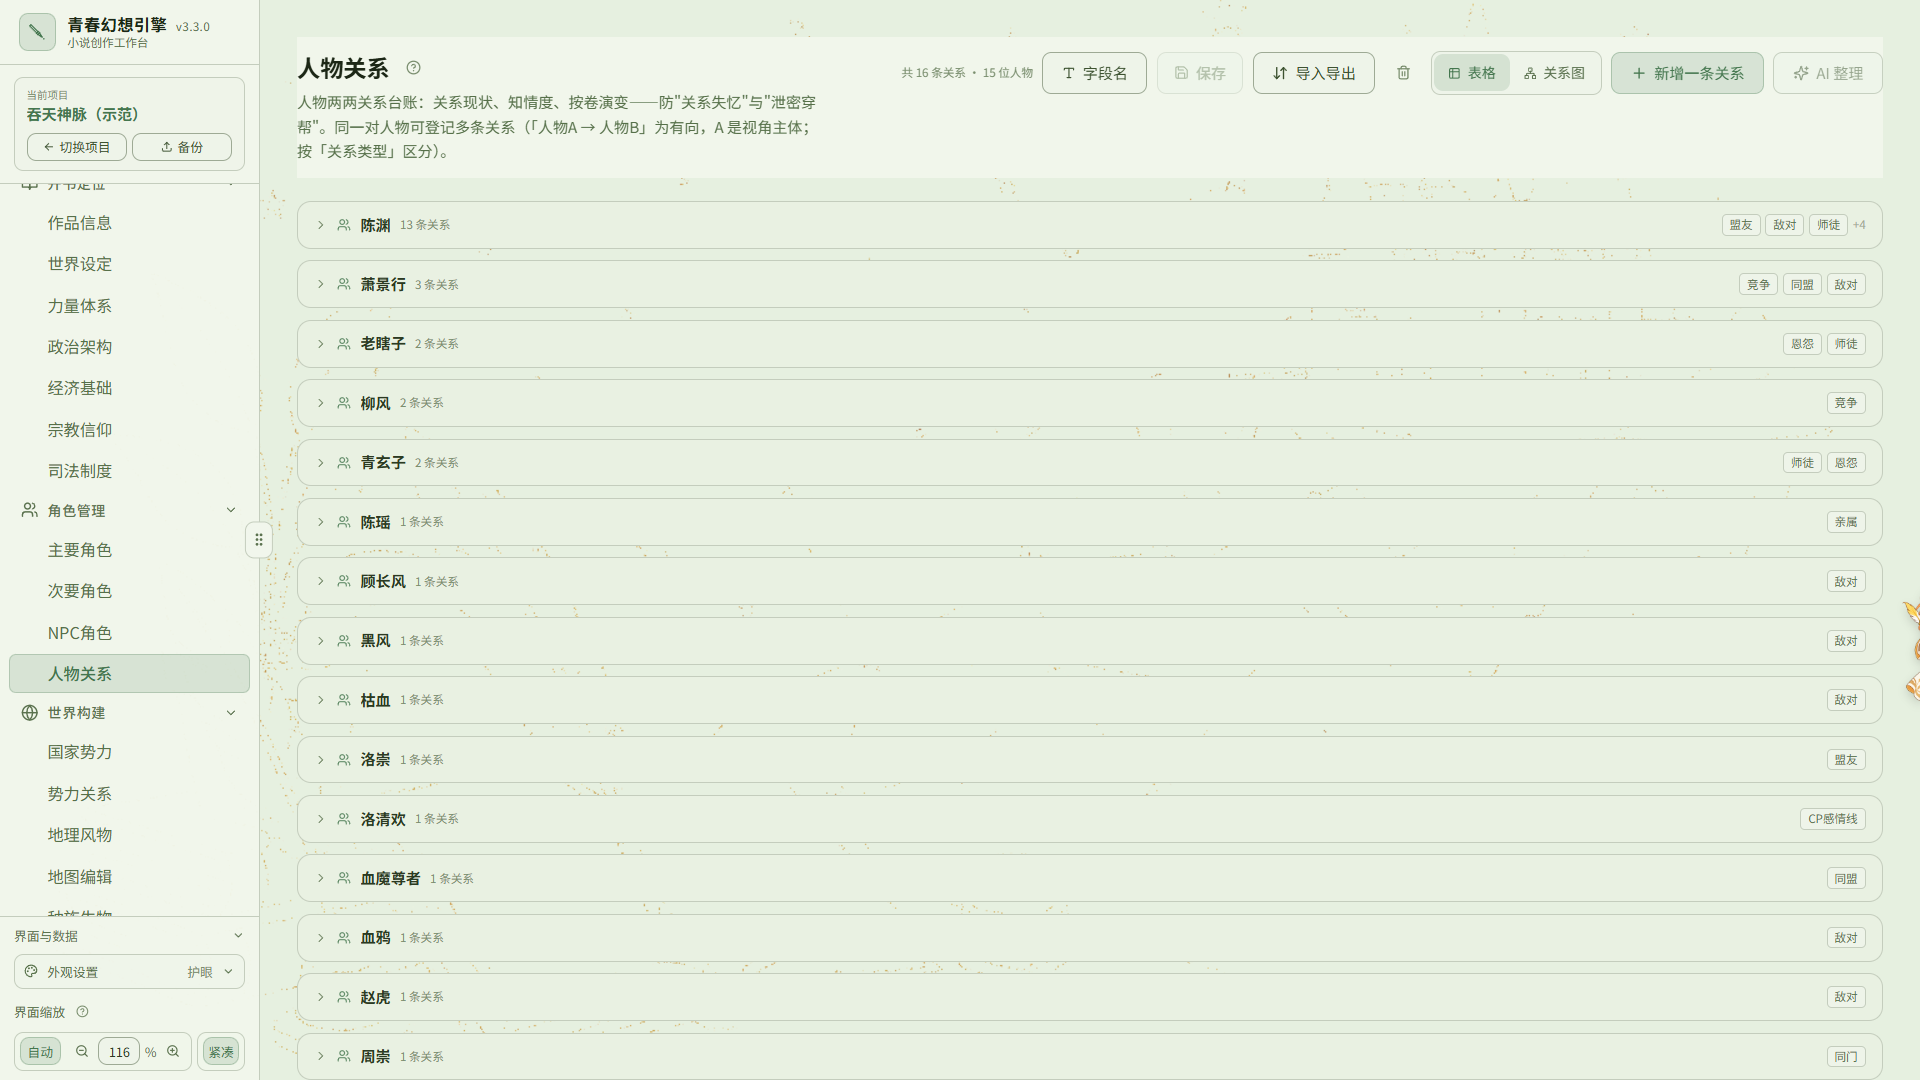
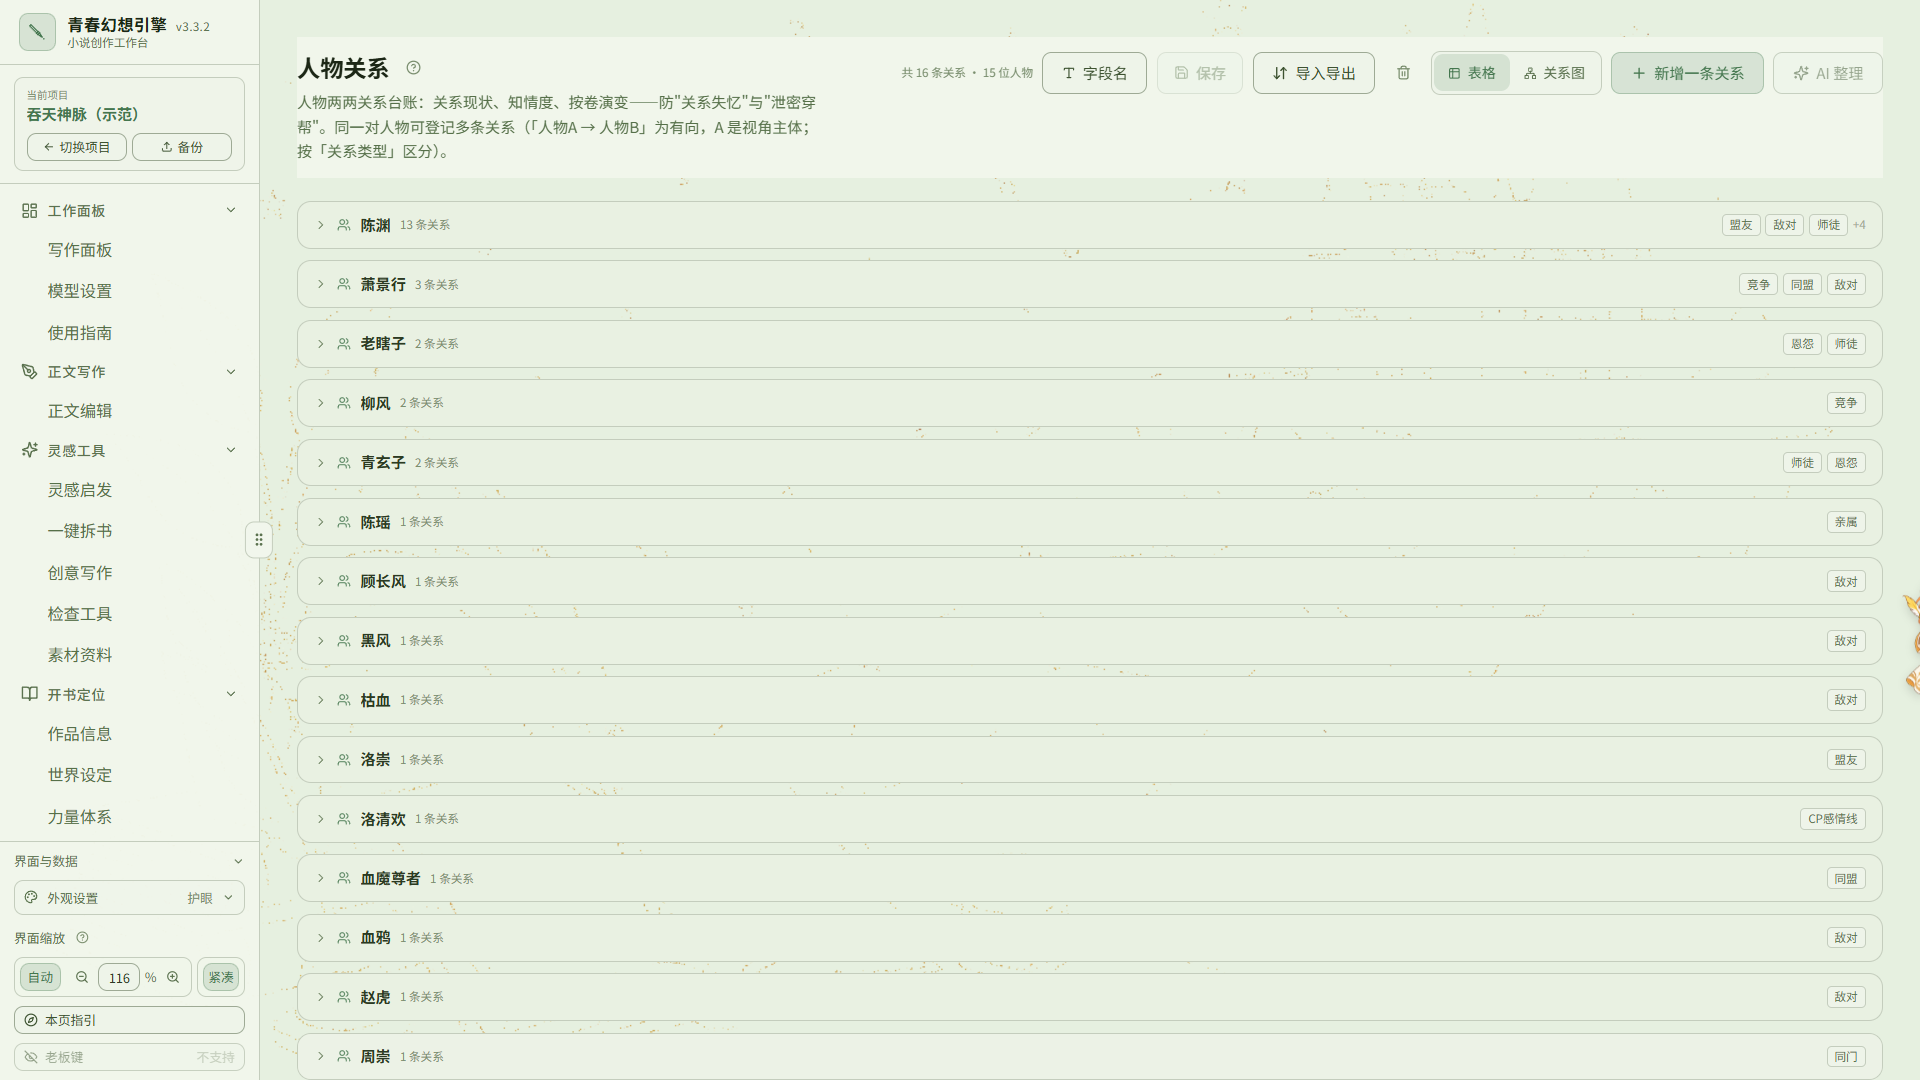
docs(readme): 首页更新到 3.3.2（版本号 / 跨设备接续 / 七张图重拍）
- 顶部源码版本 v3.3.1 → v3.3.2，补一句「同一账号跨设备接着写」
- 版本演进表新增 3.3.2 行，并补 3.3.2 本轮重点（云端作品库 / 逐本自动同步 / 冲突三选 / 回收站 / 老板键 / 界面调整 / 同步退避 / 边界）
- 修 3.3.1 发布说明链接（实际在 docs/归档/3.3/）
- 网页版与已知限制：补 3.3.2 起「项目中心 → 云端同步 → 云端作品」取回、异步接续不是实时协作
- 数据与隐私：补云端 200MB 配额、回收站 30 天与服务端定期清理
- 开发命令补 npm run release-check
- 七张图重拍为 3.3.2 真实界面：封面（cover.svg 同步改版本号）、项目中心（顶部按钮已合并为「外观 / 帮助」）、版本演进图（1.0 → 3.3.2，底部页签数 50 → 55）、写作面板 / 正文编辑 / 主要角色 / 人物关系 / 章节细纲 / 酒馆背景设定

diff --git a/README.md b/README.md
@@ -6,11 +6,12 @@
 
 **把世界观、角色、大纲、正文串成一条线的长篇创作工作台**
 
-桌面版（Windows）｜ 便携版（U 盘即走）｜ **网页版**（浏览器直接用） ｜ 源码版本 `v3.3.1`
+桌面版（Windows）｜ 便携版（U 盘即走）｜ **网页版**（浏览器直接用） ｜ 源码版本 `v3.3.2`
 
 📦 仓库：[Gitee](https://gitee.com/tgxy2026/youth-fantasy-engine)　｜　[GitHub](https://github.com/tgxy2026/youth-fantasy-engine)　｜　⬇ 下载：[Releases](https://gitee.com/tgxy2026/youth-fantasy-engine/releases)
 
-🖥 三种形态：**桌面安装版**（免 Node，双击安装）　｜　**便携版**（U 盘即走，需 Node.js）　｜　**网页版**（免安装，游客本地存 / 打赏用户云端跨设备）
+🖥 三种形态：**桌面安装版**（免 Node，双击安装）　｜　**便携版**（U 盘即走，需 Node.js）　｜　**网页版**（免安装，游客本地存 / 登录账号云端存）
+🔗 3.3.2 起：**同一个账号，桌面、网页、换台电脑，接着上一句写**（云端作品库 · 逐本自动同步 · 冲突由你选 · 删了能捞回）
 
 </div>
 
@@ -134,7 +135,7 @@
 
 - 游客模式**功能不打折，只做提示**：首启向导、项目页入口、登录页都会明说「清浏览数据或换设备后无法找回」，并引导你**自己导出一份备份**。
 - 云端模式由**站主亲手发放邀请码**，一张码只能注册一个账号；这张码同时是**找回密码的凭证**（用户名＋邀请码一起校验，拿到别人的码也改不了你的号）。
-- 网页版中，云端账号提供直接跨设备访问；游客的浏览器本地库不会自动跨设备。桌面 / 便携版可另行使用导入导出或外部云盘文件同步，切换设备前应关闭软件并等待同步完成。
+- 从 **3.3.2** 起，登录同一账号可在**项目中心 →「云端同步」→「云端作品」**里把书取回到新设备（点「下载为新书」，接着同一本云端作品写；不覆盖本机已有作品）；游客的浏览器本地库不会自动跨设备。桌面 / 便携版也可另行使用导入导出或外部云盘文件同步，切换设备前应关闭软件并等待同步完成。
 
 ### 再说一句：从源码运行
 
@@ -207,7 +208,7 @@ npm run build:desktop  # 产物输出到 release/ 目录
 ## 数据与隐私
 
 - **桌面版与便携版**：主数据与外置载荷保存在本机或便携目录；桌面的参考资料/向量索引另有独立存储，按对应功能的导出说明处理。
-- **网页游客**：数据在当前浏览器的 IndexedDB；清除浏览器数据或换设备不会自动找回。**网页云端**：数据在服务器上，按账号隔离，并受账号配额限制。
+- **网页游客**：数据在当前浏览器的 IndexedDB；清除浏览器数据或换设备不会自动找回。**登录账号 / 云端作品**：数据在服务器上，按账号隔离，单账号默认 **200 MB** 配额（含图片与全部历史版本对象）；云端删除先入**回收站保留 30 天**，过期条目与无人引用的上传碎片由服务端定期自动清理。
 - **模型与联网服务**：云端模型会收到本次发送的资料；检索、更新、账号存储、WebDAV/S3 及外部云盘各使用对应服务。使用第三方云盘同步也会把文件交给该云盘服务处理。
 - **备份**：优先使用应用内导出；手工复制文件型资料时，应同时保留主 JSON 与同级 `blobs/`。导出有载荷读取失败提示时，应保留原资料，不把部分导出当作完整副本。
 - 图片入库前会先压缩，避免库文件无限膨胀。
@@ -292,6 +293,7 @@ youth-fantasy-engine/
 | `npm run typecheck` | 仅类型检查 |
 | `npm run lint` | ESLint 静态检查 |
 | `npm run verify` | 类型检查 + lint + 测试 |
+| `npm run release-check` | 发版前检查（版本号 / 更新说明 / 页签数等一致性，不联网） |
 
 ---
 
@@ -341,7 +343,21 @@ youth-fantasy-engine/
 | **3.2.1** | **修好你反馈的标点问题 + 把 3.2.0 欠的账补上**：🔴 中文标点自动配对**在搜狗 / 微软拼音下真的会补右半边了**（根因是「输入法选字期间一律不插手」挡在配对判断前面，而中文输入法上屏标点时该标志仍为真 ⇒ 功能永远走不到）+ 新增**正文与细纲对照**（五态结论；每条必须附一句能逐字落在正文的原句，摘不出就强制判「证据不足」；未体现 / 与计划不同的可一键落成报告、加入工单）+ **封存版本差异对比**（按条目列出新增 / 删除 / 修改与字段前后值，可复制 Markdown，纯只读）+ **复检结论刷新后还在**（每章最近一条，**区分「有结论」与「跑过没跑成」**）+ **换模板时有横幅点名告知**（哪个页签在换、哪些写入被拦、改动没丢）+ 修**候选配额只增不减的死锁**（已放弃 / 已应用超 30 天的旧产物自动回收，待审 / 在途一律不动）+ 图鉴导入预览显示字段类型、上传规格不再写死数字 + 新增发版检查命令 `npm run release-check` + README 页签数修正 50 → **55** |
 | **3.2.2** | **修一个会写错项目的数据事故**：🔴 **创意写作跨项目串任务** —— 项目 A 正在创意写作时切到项目 B，A 的任务**不停**、面板在 B 里继续显示「运行中」，而它的新章 / 大纲 / 设定草稿 / 运行账本 / 改写候选会**带着 B 的项目 id 落库**（读的也是 B 的卷章）。现在开跑即绑定项目，换项目 / 退出项目前先判定：**不属于新项目就立即停止**，并如实提示「产出没有写入任何项目」；同项目重开不受影响（被中止的任务仍可「继续」）。⚠ 这是 A 档（宁可停、不写错），落库层显式 pid 校验留待后续（**当前版本**） |
 | **3.3.0** | **创作工作台界面优化**：项目卡片、侧栏、正文工具与地图布局调整；AI 校对、摘要与审阅明确展示失败或部分完成；长等待任务增加中止；保存失败时保留工作现场。详见 [3.3.0 发布说明](docs/归档/3.3/3.3.0-更新说明-发布版.md)。 |
-| **3.3.1** | **不会用的时候，软件自己告诉你**：内置**使用手册**（41 篇，覆盖 55 个页签入口，离线全文检索、点结果落到那一段）+ **页签聚焦引导**（第一次进某页自动高亮关键入口，可跳过可重看）+ **使用答疑助手**（查手册不需要模型；配了模型可按手册作答，**每条回答附原文依据**、点开回到那段原文，没依据就退回检索不编）+ **连续追问**（「那还需要模型吗」这类省略句会**重新检索上一问的主题**，界面显示「接着上一问」，说不清时先问你要哪个功能）+ **界面缩放 160% 不裁字** + **校对定位能看到选中那句** + **全文检索「第 n/N 处」精确跳转** + **设定表方向键**（同列上下行，数字/下拉/长文本自动让行）+ 修复**左右分栏切卡片右栏跳回顶部**、**进章停在开头**（现在落到该章末尾、光标在文末，章节列表首次打开停在最新章）。详见 [3.3.1 发布说明](docs/3.3.1-更新说明-发布版.md)。 |
+| **3.3.1** | **不会用的时候，软件自己告诉你**：内置**使用手册**（41 篇，覆盖 55 个页签入口，离线全文检索、点结果落到那一段）+ **页签聚焦引导**（第一次进某页自动高亮关键入口，可跳过可重看）+ **使用答疑助手**（查手册不需要模型；配了模型可按手册作答，**每条回答附原文依据**、点开回到那段原文，没依据就退回检索不编）+ **连续追问**（「那还需要模型吗」这类省略句会**重新检索上一问的主题**，界面显示「接着上一问」，说不清时先问你要哪个功能）+ **界面缩放 160% 不裁字** + **校对定位能看到选中那句** + **全文检索「第 n/N 处」精确跳转** + **设定表方向键**（同列上下行，数字/下拉/长文本自动让行）+ 修复**左右分栏切卡片右栏跳回顶部**、**进章停在开头**（现在落到该章末尾、光标在文末，章节列表首次打开停在最新章）。详见 [3.3.1 发布说明](docs/归档/3.3/3.3.1-更新说明-发布版.md)。 |
+| **3.3.2** | **同一个账号，桌面、网页、换台电脑，接着上一句写**：新增**云端作品库**（项目中心右上角直接取回，新设备不用先建空书）+ **逐本自动同步**（点「上传这本到云端」才上云，之后每次保存约 20 秒同步一次，**没有服务端回执不会显示已同步**）+ **冲突由你选**（保留本机上传 / 云端覆盖本机·覆盖前自动备份 / 两份都留各存一本）+ **回收站 30 天**（云端删错能恢复，也能彻底删除；过期与无引用碎片由服务端定期清理）+ **桌面版账号密码直登**（不跳浏览器、地址内置、令牌存系统安全存储）+ **登录设备管理**（逐台撤销，最多 20 台）+ **老板键**（默认 `Ctrl+Shift+F9`，可自定义，按下先存草稿；托盘图标兜底，不会再「藏起来找不回」）+ **项目中心顶部按钮合并成「外观 / 帮助」两处下拉**（1280 宽不再挤成两排）+ 登录与同步状态**进来即真实**（读到前显示「…」，不再先给一个假的「未登录」）+ 无改动时同步间隔**从 20 秒逐步退到 5 分钟**（一打字立刻回到 20 秒）。⚠ 是**异步多端接续**、不是实时协作。详见 [3.3.2 发布说明](docs/3.3.2-更新说明-发布版.md)。 |
+
+**3.3.2 本轮重点**（书跟着人走：云端作品库 + 逐本自动同步 + 老板键）：
+
+- ⭐ **每本书单独决定要不要上云**：作品开着时点侧栏「云端同步」→「上传这本到云端」。**没点过的书不会偷偷上传**；上传后每次保存约 20 秒同步一次，侧栏那行字如实显示「已同步 / 有待上传 / 同步中 / 已关闭 / 网络不通」
+- ⭐ **换设备不用先建空书**：新设备登录同一账号，在**项目中心右上角**「云端同步」→「云端作品」里点**下载为新书**，拿到的是一本新的本机作品（不覆盖本机任何一本），并且**接着同一本云端作品往下写**
+- ⭐ **两边都改了不会替你决定**：面板明说「本机与云端各有改动」，给三条路 —— **保留本机并上传** / **用云端覆盖本机（覆盖前自动备份一份，可在「备份」里找回）** / **两份都留（云端那版另存为新书，本机原样不动）**。只有云端更新、本机没改时**不会自动替换**，只提示有新版本
+- ⭐ **删错了能捞回来**：云端作品删除是**放进回收站保留 30 天**，点「恢复」即可；回收站条目**不能直接下载**（避免「删了又活」），只能先恢复；也能「彻底删除」。过期回收站与无引用上传碎片由服务端定期自动清理（默认 6 小时一轮），不再长期占配额
+- ⭐ **桌面版账号密码直登**：不跳浏览器、不用填服务器地址（已内置）；令牌用系统安全存储加密保存在本机，**不以明文落在任何文件里**；退出只下掉这一台设备。网页版可查看**登录设备**并逐台撤销（同账号最多 20 台，超 10 台提示清理）
+- ⭐ **老板键**：桌面版可选组合键（默认 `Ctrl + Shift + F9`，也能「自己按一个」，必须带 Ctrl 或 Alt）；按下立刻隐藏窗口（Windows 上任务栏图标一起消失）并**先保存当前草稿**，再按回来时光标、选区、滚动位置都在。组合键被系统占用会**明说「被占用、换一个」**，不假装成功
+- ⭐ **藏起来以后不会找不到**：软件运行期间托盘常驻，**左键单击直接恢复窗口**，右键有「显示主窗口 / 隐藏窗口 / 退出」。⚠ 点右上角 `×` 仍然是退出；**老板键不是密码锁** —— 任务管理器、录屏、系统历史依然看得到，别当保险箱
+- 🔧 **界面按试用反馈调整**：项目中心顶部按钮从八个合并成**「外观」（看板娘 / 应用图标）与「帮助」（新手引导 / 使用手册）两处下拉**，1280 宽窗口不再挤成两排；登录与同步状态**进来就是真实状态**（读到之前显示「…」，不再先给一个假的「未登录」）；侧栏「界面与数据」顺序改为「本页指引 → 云端同步 → 老板键」，当前页无指引时**保留占位置灰**（写「此页无」）不让条目上下跳；「获取最新版本」按钮固定同一行不再折行
+- 🔧 **同步会自己歇一会儿**：一直没改动时检查间隔从 20 秒逐步退到 5 分钟，一打字立刻回到 20 秒 —— 既不耽误跨设备接续，也不让有限的服务器流量被空请求淹没。云端对象**按内容去重**（同一张封面被两本书用只算一份）
+- ⚠ **边界**：这是**异步多端接续**，不是实时协作（同时改同一本会检出冲突交你选，不会自动合并文字）；云同步**不搬运** AI 模型密钥与私人网盘凭据（只留本机）；游客模式数据只在你自己浏览器里，**换设备不通**；云端单账号默认 **200 MB** 配额（含图片与全部历史版本对象）
 
 **3.2.0 本轮重点**（AI 改稿靠不靠得住：你能看见、能决定、能核对）：
 
@@ -634,7 +650,7 @@ youth-fantasy-engine/
 - **桌面安装版仅 Windows**（无 Mac / Linux 原生安装包）；**便携版**可跑在 Windows / macOS / Linux，需自装 Node.js 20+。
 - **仅简体中文**，暂无多语言支持。
 - **便携版**的「自动更新 / 云盘同步 / 系统托盘 / 安装卸载 / PDF 导出」不可用（依赖系统级安装或后台常驻），其余功能齐全。
-- **跨设备**：桌面 / 便携走云盘文件夹，**不是实时同步**，换设备前需手动等同步完成；网页版**云端模式**实时存在服务器，但只对打赏用户开放（游客模式数据只在本地浏览器）。
+- **跨设备**：从 **3.3.2** 起，登录账号后可在**云端作品库**里逐本接续 —— 手动上传一本之后按保存自动同步（约 20 秒一次，无改动会退避到 5 分钟），新设备「下载为新书」接着写；它仍是**异步接续、不是实时协作**，两台设备同时改同一本会检出冲突交你选。桌面 / 便携也可走云盘文件夹同步，**换设备前需手动等同步完成**；网页版**云端模式**只对打赏用户开放（游客模式数据只在本地浏览器）。
 - 超长篇（百万字级）的性能优化仍在进行中。
 - 内置 AI 功能需要你自己准备模型（本地或云端），软件本身不附带任何模型。
 
